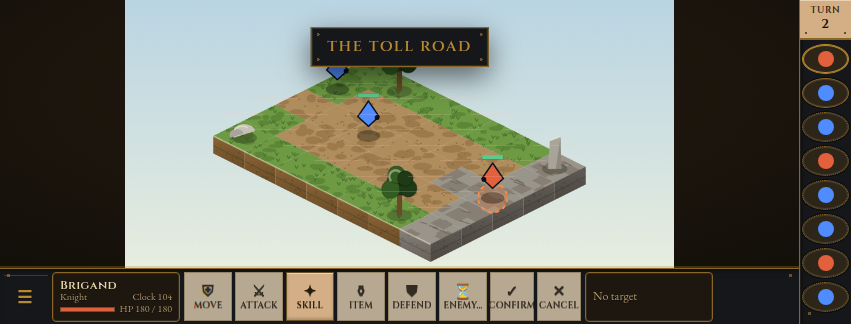
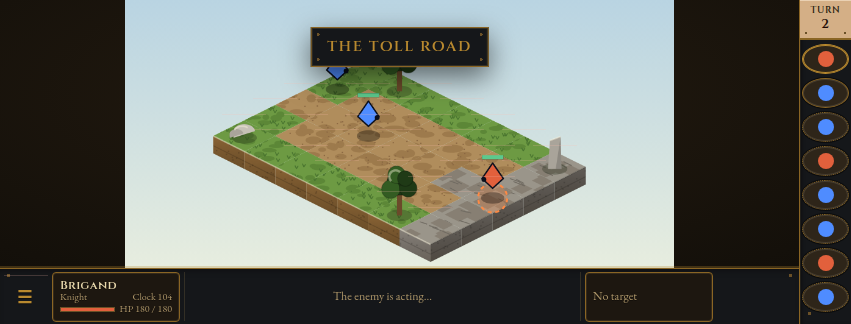
Hide the command ribbon during the enemy's turn
Owner, 2026-09-19: "hide the list of action buttons that's only used for
players." On the campaign page every ribbon button is hidden while AI_TURN is
running itself, and one line, "The enemy is acting...", takes the ribbon's slot
so the two plates keep their place in the band. The engine viewer keeps its
ribbon, where the Enemy button is watch mode's explicit Step.

The hide is folded into the one ribbon-visibility assignment beside the
battle-end Continue swap, so neither branch can re-show what the other hid
(the first cut had two assignments and the second undid the first).

e2e/pacer.spec.ts asserts all eight buttons hidden, the notice drawn inside
the band's box, and the ribbon back on the player's turn; the capture spec
reads the notice instead of the button. docs/10 section 3 and AC-V68 and
ADR-0044 say the same.

Claude-Session: https://claude.ai/code/session_01GjkpCczcB7hvM8RVzu8Xqy

Changed region(s): [[0.2139, 0.8333, 0.7027, 1.0]]

diff --git a/src/render/hud.ts b/src/render/hud.ts
@@ -306,7 +306,16 @@ export function mountHud(host: HTMLElement, ports: HudPorts): HudHandle {
   concludeBtn.classList.add("tuh-commit");
   concludeBtn.hidden = true;
   const ribbonButtons = [moveBtn, attackBtn, actionsBtn, itemBtn, defendBtn, primaryBtn, confirmBtn, cancelBtn];
-  ribbon.append(...ribbonButtons, concludeBtn);
+  // THE ENEMY'S TURN HAS NO COMMANDS (owner, 2026-09-19: "hide the list of action
+  // buttons that's only used for players"). On the campaign page every ribbon button is
+  // hidden during `AI_TURN` and this one line takes the ribbon's slot, so the two plates
+  // keep their place in the band. The engine viewer keeps its ribbon: its Enemy ▸ button
+  // is watch mode's Step (docs/10 §7).
+  const ribbonNotice = el("div", "tuh-ribbon-notice");
+  ribbonNotice.dataset["testid"] = "ribbon-notice";
+  ribbonNotice.textContent = PHASE_HINT.AI_TURN + "…";
+  ribbonNotice.hidden = true;
+  ribbon.append(...ribbonButtons, concludeBtn, ribbonNotice);
 
   const targetPlate = el("button", "tuh-target-plate");
   targetPlate.type = "button";
@@ -515,8 +524,9 @@ export function mountHud(host: HTMLElement, ports: HudPorts): HudHandle {
     // it is. Disabled like the other ribbon buttons, not hidden, so the band's layout
     // does not shift as the phase flips.
     const label = primaryBtn.querySelector(".rb-label")!;
+    const paced = session.phase === "AI_TURN" && (ports.enemyRunsItself?.() ?? false);
+    ribbonNotice.hidden = !paced;
     if (session.phase === "AI_TURN") {
-      const paced = ports.enemyRunsItself?.() ?? false;
       label.textContent = paced ? "Enemy…" : "Enemy ▸";
       primaryBtn.disabled = paced;
       primaryBtn.title = PHASE_HINT.AI_TURN;
@@ -536,7 +546,10 @@ export function mountHud(host: HTMLElement, ports: HudPorts): HudHandle {
     // no room in a 780×56 band for eight controls plus a ninth.
     const done = session.phase === "ENDED" ? (ports.conclude?.() ?? null) : null;
     concludeBtn.hidden = done === null;
-    for (const b of ribbonButtons) b.hidden = done !== null;
+    // …and the enemy's turn hides the same eight (ADR-0044, owner 2026-09-19), with the
+    // notice above in their slot. One assignment, so neither branch can re-show the
+    // buttons the other hid.
+    for (const b of ribbonButtons) b.hidden = done !== null || paced;
     if (done) concludeBtn.querySelector(".rb-label")!.textContent = done.label;
   }
 

diff --git a/e2e/pacer.spec.ts b/e2e/pacer.spec.ts
@@ -43,10 +43,22 @@ test("the enemy acts on its own: no button, no call, the log grows by itself", a
   await page.evaluate(() => window.tuhGame.setEnemySpeed(3));
   await reachEnemyTurn(page);
 
-  // The pause is armed, and the primary button is a plate, not a control.
+  // The pause is armed, and the player's command ribbon is GONE — every one of its
+  // buttons hidden, one notice in their slot, drawn inside the band (owner, 2026-09-19).
   expect(await page.evaluate(() => window.tuhGame.enemyTurnPending())).toBe(true);
-  await expect(page.getByTestId("end-turn")).toBeDisabled();
-  await expect(page.getByTestId("end-turn")).toContainText("Enemy");
+  for (const id of ["move", "attack", "actions", "item", "defend", "end-turn", "confirm", "cancel"]) {
+    await expect(page.getByTestId(id)).toBeHidden();
+  }
+  const notice = page.getByTestId("ribbon-notice");
+  await expect(notice).toBeVisible();
+  const boxes = await page.evaluate(() => {
+    const r = (sel: string): DOMRect | undefined =>
+      document.querySelector(sel)?.getBoundingClientRect();
+    return { notice: r('[data-testid="ribbon-notice"]'), band: r(".tuh-band") };
+  });
+  expect(boxes.notice!.top).toBeGreaterThanOrEqual(boxes.band!.top);
+  expect(boxes.notice!.bottom).toBeLessThanOrEqual(boxes.band!.bottom);
+  expect(boxes.notice!.width).toBeGreaterThan(0);
 
   // NOTHING is called from here on. The count moves because the pause came due.
   const before = await page.evaluate(() => window.tuhGame.commandCount());
@@ -67,6 +79,12 @@ test("the enemy acts on its own: no button, no call, the log grows by itself", a
   expect(settled.pending).toBe(false);
   expect(settled.count).toBeGreaterThan(before);
   expect(["PLAYER_IDLE", "ENDED"]).toContain(settled.phase);
+  // …and the ribbon is back for the player.
+  if (settled.phase === "PLAYER_IDLE") {
+    await expect(page.getByTestId("move")).toBeVisible();
+    await expect(page.getByTestId("end-turn")).toBeVisible();
+    await expect(page.getByTestId("ribbon-notice")).toBeHidden();
+  }
   // Held, the count sits still: the hold is what every other spec relies on.
   if (settled.phase === "PLAYER_IDLE") {
     await page.evaluate(() => window.tuhGame.holdEnemyTurns(true));

diff --git a/src/render/stage.css b/src/render/stage.css
@@ -856,6 +856,22 @@
   border-color: var(--hud-face-edge-sel);
 }
 
+/* The enemy's turn: the ribbon's one line in place of the eight buttons (ADR-0044,
+   owner 2026-09-19). Same soft ink as an empty plate; centred in the slot the buttons
+   vacate, so the plates either side do not move. */
+.tuh-ribbon-notice {
+  flex: 1 1 auto;
+  height: 100%;
+  display: flex;
+  align-items: center;
+  justify-content: center;
+  font-size: 12px;
+  color: var(--hud-ink-soft);
+}
+.tuh-ribbon-notice[hidden] {
+  display: none;
+}
+
 /* `[hidden]` MUST STILL HIDE IT. Setting `display: flex` directly on the button
    above (needed to stack the glyph over the label) otherwise fights the UA's own
    `[hidden] { display: none }` rule at EQUAL origin/specificity math the wrong

diff --git a/e2e/stage-capture.spec.ts b/e2e/stage-capture.spec.ts
@@ -163,8 +163,8 @@ test("stage frames: the five interaction states, on the owner's phone", async ({
     }
   });
   expect(await page.evaluate(() => window.tuhGame.phase())).toBe("AI_TURN");
-  await expect(page.getByTestId("end-turn")).toContainText("Enemy");
-  await expect(page.getByTestId("end-turn")).toBeDisabled();
+  await expect(page.getByTestId("end-turn")).toBeHidden();
+  await expect(page.getByTestId("ribbon-notice")).toBeVisible();
   await settleMotion(page);
   await page.screenshot({ path: `${SHOTS}/851x324-ai-turn.png` });
 

diff --git a/docs/10-viewer-and-interaction.md b/docs/10-viewer-and-interaction.md
@@ -132,10 +132,12 @@ previews honest, and speculation impossible.
   target click.** Hover previews are an addition, never a replacement.
 - **The action bar's right-hand primary button is PHASE-AWARE.** In a player phase it is
   **End Turn**, labelled with the price it will pay (`End Turn · Move only · −80 Clock`).
-  In `AI_TURN` it is **inert** (ADR-0044) — disabled like the other ribbon buttons, keeping
-  its place in the band and reading "Enemy…" — because the enemy's turn runs itself from
-  the moment it starts, so the stage needs no control during it and the player is not
-  stranded. The ☰ menu's watch-mode entry ("Play the enemy now ▸") remains as a shortcut
+  In `AI_TURN` the whole command ribbon is **hidden** (ADR-0044; owner 2026-09-19, "hide
+  the list of action buttons that's only used for players") and one line, "The enemy is
+  acting…" (`ribbon-notice`), takes its slot so the two plates keep their place — because
+  the enemy's turn runs itself from the moment it starts, so the stage needs no control
+  during it and the player is not stranded. (The engine viewer keeps its ribbon: there
+  the button is watch mode's explicit Step.) The ☰ menu's watch-mode entry ("Play the enemy now ▸") remains as a shortcut
   past the pause, never a control the turn needs. The
   determinism rule is the one in §3's note above — a pause may set WHEN a Step is shown,
   never WHETHER or HOW MANY.
@@ -1179,7 +1181,9 @@ branches are untested by decision.
   `staleFires()` SHALL be ≥1 in (c) and (d), so a pacer with no epoch guard cannot pass on
   a fixture where the guard was never needed. In the browser, the command count SHALL grow
   inside `AI_TURN` with no call from the spec, the primary button SHALL be disabled, and a
-  held pacer SHALL arm nothing. *Measured:* three mutations (no epoch guard; a fire that
+  held pacer SHALL arm nothing; every ribbon button SHALL be hidden and `ribbon-notice`
+  SHALL be visible inside the band's box, and the ribbon SHALL return with the player's
+  turn. *Measured:* three mutations (no epoch guard; a fire that
   steps twice; a dropped pause left uncancelled) each go red in `pacer.test.ts` where its
   header names. Covered by `pacer.test.ts` "AC-V68" and `e2e/pacer.spec.ts` "the enemy acts
   on its own".

diff --git a/docs/adr/0044-enemy-turns-run-themselves-a-pacer-triggers-a-step-never-decides-one.md b/docs/adr/0044-enemy-turns-run-themselves-a-pacer-triggers-a-step-never-decides-one.md
@@ -104,9 +104,10 @@ injection `MotionDirector` uses for `now`. `session.ts` stays as it is.
 - Every commit or advance that changes the log invalidates the pending step. Nothing has to
   remember to cancel; the epoch does the remembering.
 - **The button goes (owner, 2026-09-19: "there is no button that needs pressing").** In
-  `AI_TURN` the primary button is inert — disabled like Item and Defend, keeping its place
-  in the band so the layout does not shift, reading "Enemy…"; the enemy's turn starting is
-  the only thing that advances an enemy action, and `docs/10` §3's worry that the stage "has no control at all during the
+  `AI_TURN` the whole command ribbon is hidden (owner, 2026-09-19: "hide the list of
+  action buttons that's only used for players") and one line, "The enemy is acting…",
+  takes its slot so the plates keep their place; the enemy's turn starting is the only
+  thing that advances an enemy action, and `docs/10` §3's worry that the stage "has no control at all during the
   enemy's turn" is answered by the enemy's turn running itself. `Session.step()` and the
   `GameApi.step` seam stay, for tests and watch mode only. Whether a tap on the board
   *shortens* the pause is a **presentation choice, rendered before it is asked**
@@ -167,7 +168,7 @@ campaign save or `BattleState` (asserted against the schemas, not by inspection)
 
 ## Consequences
 
-- **Six taps a round become none, and the button is inert.** The player's turn ends and the
+- **Six taps a round become none, and the player's commands leave the band.** The player's turn ends and the
   enemy round plays at the speed they chose. The ☰ menu's watch-mode entry stays as a
   shortcut past the pause — a shipped feature (`docs/10` §7), not a control the turn needs.
 - **Four sentences in the record are rewritten in the same slice:** `docs/10` §3 (both
